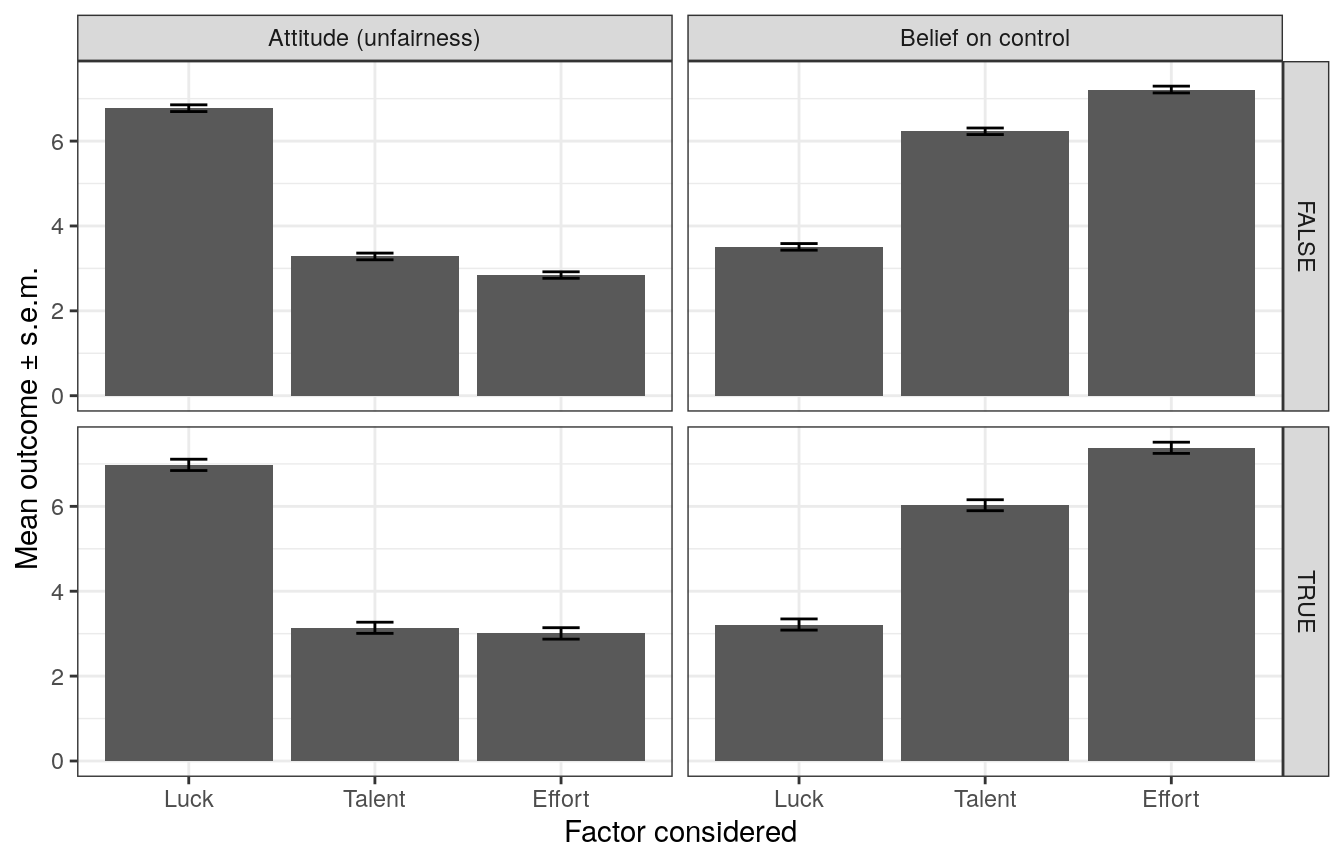
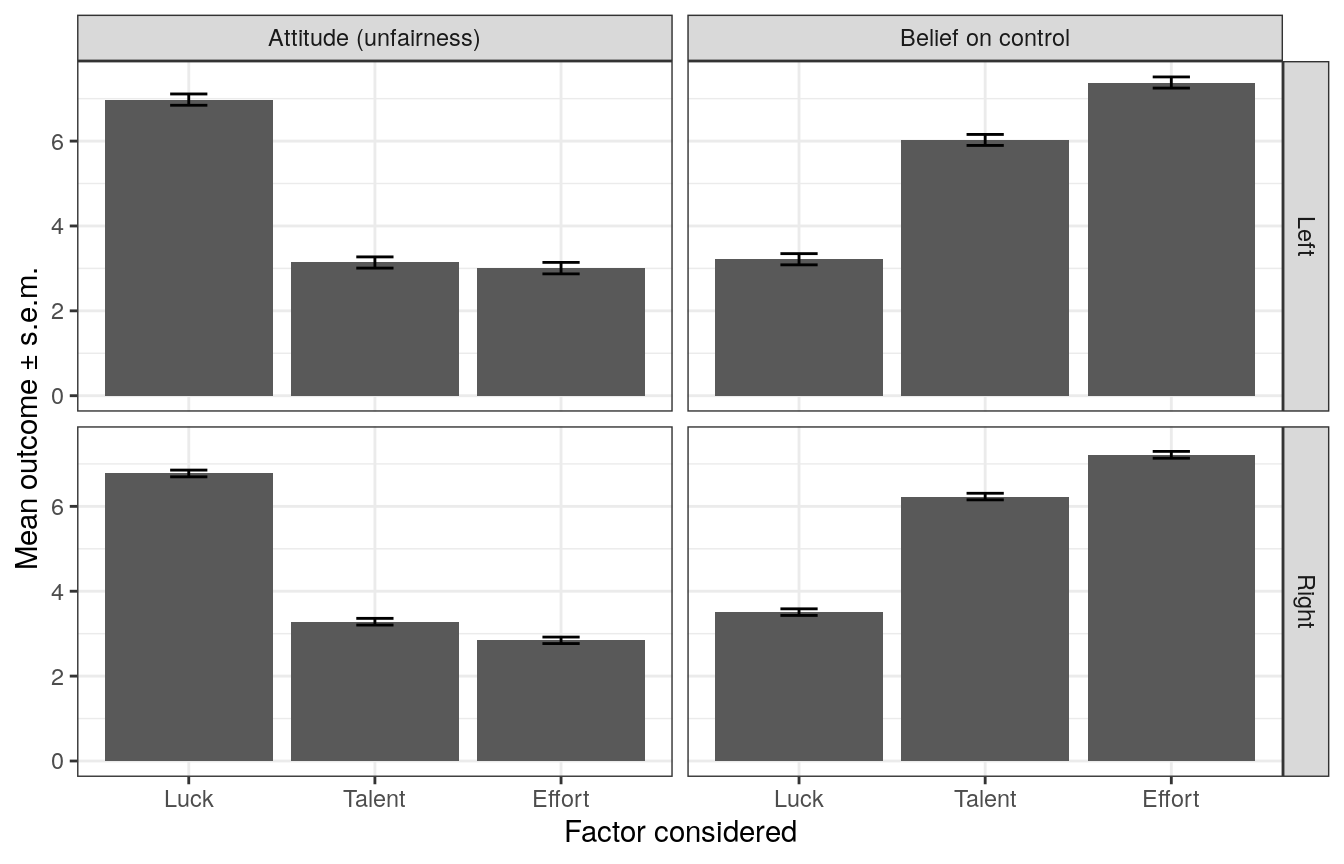
Updated graph labels.

diff --git a/docs/articles/survey-results.html b/docs/articles/survey-results.html
@@ -158,13 +158,14 @@
 <a class="sourceLine" id="cb5-4" data-line-number="4">                        <span class="dt">Luck =</span> <span class="kw"><a href="https://rdrr.io/r/base/c.html">c</a></span>(<span class="st">"AL"</span>,<span class="st">"CL"</span>),</a>
 <a class="sourceLine" id="cb5-5" data-line-number="5">                        <span class="dt">Talent =</span> <span class="kw"><a href="https://rdrr.io/r/base/c.html">c</a></span>(<span class="st">"AT"</span>,<span class="st">"CT"</span>),</a>
 <a class="sourceLine" id="cb5-6" data-line-number="6">                        <span class="dt">Effort =</span> <span class="kw"><a href="https://rdrr.io/r/base/c.html">c</a></span>(<span class="st">"AE"</span>, <span class="st">"CE"</span>)),</a>
-<a class="sourceLine" id="cb5-7" data-line-number="7">         <span class="dt">fo =</span> <span class="kw">fct_relevel</span>(f, <span class="kw"><a href="https://rdrr.io/r/base/c.html">c</a></span>(<span class="st">"Luck"</span>, <span class="st">"Talent"</span>, <span class="st">"Effort"</span>))) <span class="op">%&gt;%</span></a>
-<a class="sourceLine" id="cb5-8" data-line-number="8"><span class="st">  </span><span class="kw">group_by</span>(outcometype, left, fo, outcome) <span class="op">%&gt;%</span><span class="st"> </span><span class="kw">summarize</span>(<span class="dt">m =</span> <span class="kw"><a href="https://rdrr.io/r/base/mean.html">mean</a></span>(value), <span class="dt">se =</span> <span class="kw"><a href="https://rdrr.io/r/stats/sd.html">sd</a></span>(value)<span class="op">/</span><span class="kw"><a href="https://rdrr.io/r/base/MathFun.html">sqrt</a></span>(<span class="kw">n</span>()))  <span class="op">%&gt;%</span></a>
-<a class="sourceLine" id="cb5-9" data-line-number="9"><span class="st">  </span><span class="kw">ggplot</span>(<span class="kw">aes</span>(<span class="dt">x=</span>fo, <span class="dt">y=</span>m)) <span class="op">+</span></a>
-<a class="sourceLine" id="cb5-10" data-line-number="10"><span class="st">  </span><span class="kw">geom_bar</span>(<span class="dt">stat=</span><span class="st">"identity"</span>) <span class="op">+</span><span class="st"> </span><span class="kw">facet_grid</span>(left <span class="op">~</span><span class="st"> </span>outcometype) <span class="op">+</span><span class="st"> </span></a>
-<a class="sourceLine" id="cb5-11" data-line-number="11"><span class="st">  </span><span class="kw">geom_errorbar</span>(<span class="kw">aes</span>(<span class="dt">ymin=</span>m<span class="op">-</span>se, <span class="dt">ymax=</span>m<span class="op">+</span>se), <span class="dt">width=</span><span class="fl">0.2</span>) <span class="op">+</span><span class="st"> </span></a>
-<a class="sourceLine" id="cb5-12" data-line-number="12"><span class="st">  </span><span class="kw">xlab</span>(<span class="st">"Factor considered"</span>) <span class="op">+</span><span class="st"> </span><span class="kw">ylab</span>(<span class="st">"Mean outcome \u00B1 s.e.m."</span>) <span class="op">+</span></a>
-<a class="sourceLine" id="cb5-13" data-line-number="13"><span class="st">  </span><span class="kw">theme_bw</span>()</a></code></pre></div>
+<a class="sourceLine" id="cb5-7" data-line-number="7">         <span class="dt">fo =</span> <span class="kw">fct_relevel</span>(f, <span class="kw"><a href="https://rdrr.io/r/base/c.html">c</a></span>(<span class="st">"Luck"</span>, <span class="st">"Talent"</span>, <span class="st">"Effort"</span>)),</a>
+<a class="sourceLine" id="cb5-8" data-line-number="8">         <span class="dt">left_description =</span> <span class="kw"><a href="https://rdrr.io/r/base/c.html">c</a></span>(<span class="st">"Right"</span>, <span class="st">"Left"</span>)[left<span class="op">+</span><span class="dv">1</span>]) <span class="op">%&gt;%</span></a>
+<a class="sourceLine" id="cb5-9" data-line-number="9"><span class="st">  </span><span class="kw">group_by</span>(outcometype, left_description, fo, outcome) <span class="op">%&gt;%</span><span class="st"> </span><span class="kw">summarize</span>(<span class="dt">m =</span> <span class="kw"><a href="https://rdrr.io/r/base/mean.html">mean</a></span>(value), <span class="dt">se =</span> <span class="kw"><a href="https://rdrr.io/r/stats/sd.html">sd</a></span>(value)<span class="op">/</span><span class="kw"><a href="https://rdrr.io/r/base/MathFun.html">sqrt</a></span>(<span class="kw">n</span>()))  <span class="op">%&gt;%</span></a>
+<a class="sourceLine" id="cb5-10" data-line-number="10"><span class="st">  </span><span class="kw">ggplot</span>(<span class="kw">aes</span>(<span class="dt">x=</span>fo, <span class="dt">y=</span>m)) <span class="op">+</span></a>
+<a class="sourceLine" id="cb5-11" data-line-number="11"><span class="st">  </span><span class="kw">geom_bar</span>(<span class="dt">stat=</span><span class="st">"identity"</span>) <span class="op">+</span><span class="st"> </span><span class="kw">facet_grid</span>(left_description <span class="op">~</span><span class="st"> </span>outcometype) <span class="op">+</span><span class="st"> </span></a>
+<a class="sourceLine" id="cb5-12" data-line-number="12"><span class="st">  </span><span class="kw">geom_errorbar</span>(<span class="kw">aes</span>(<span class="dt">ymin=</span>m<span class="op">-</span>se, <span class="dt">ymax=</span>m<span class="op">+</span>se), <span class="dt">width=</span><span class="fl">0.2</span>) <span class="op">+</span><span class="st"> </span></a>
+<a class="sourceLine" id="cb5-13" data-line-number="13"><span class="st">  </span><span class="kw">xlab</span>(<span class="st">"Factor considered"</span>) <span class="op">+</span><span class="st"> </span><span class="kw">ylab</span>(<span class="st">"Mean outcome \u00B1 s.e.m."</span>) <span class="op">+</span></a>
+<a class="sourceLine" id="cb5-14" data-line-number="14"><span class="st">  </span><span class="kw">theme_bw</span>()</a></code></pre></div>
 <p><img src="survey-results_files/figure-html/unnamed-chunk-4-1.png" width="672"></p>
 <div class="sourceCode" id="cb6"><pre class="sourceCode r"><code class="sourceCode r"><a class="sourceLine" id="cb6-1" data-line-number="1"><span class="kw">ggsave</span>(here<span class="op">::</span><span class="kw"><a href="https://rdrr.io/pkg/here/man/here.html">here</a></span>(<span class="st">"graphs"</span>,<span class="st">"attitudes_beliefs_pol.pdf"</span>))</a>
 <a class="sourceLine" id="cb6-2" data-line-number="2"><span class="co">#&gt; Saving 7 x 4.5 in image</span></a></code></pre></div>
@@ -203,9 +204,9 @@
 <a class="sourceLine" id="cb7-27" data-line-number="27"><span class="co">#&gt; # A tibble: 3 x 13</span></a>
 <a class="sourceLine" id="cb7-28" data-line-number="28"><span class="co">#&gt;   treatment  gender   age left   income     edu    id fct   attitude</span></a>
 <a class="sourceLine" id="cb7-29" data-line-number="29"><span class="co">#&gt;   &lt;fct&gt;     &lt;dbl+l&gt; &lt;dbl&gt; &lt;lgl&gt; &lt;dbl+l&gt; &lt;dbl+l&gt; &lt;int&gt; &lt;fct&gt;    &lt;dbl&gt;</span></a>
-<a class="sourceLine" id="cb7-30" data-line-number="30"><span class="co">#&gt; 1 Ex Post … 1 [Fem…    24 TRUE  3 [60 … 3 [Som…  1892 effo…        0</span></a>
-<a class="sourceLine" id="cb7-31" data-line-number="31"><span class="co">#&gt; 2 Ex Ante … 1 [Fem…    31 FALSE 2 [ 30… 4 [Ass…   498 tale…        3</span></a>
-<a class="sourceLine" id="cb7-32" data-line-number="32"><span class="co">#&gt; 3 Ex Ante … 1 [Fem…    34 TRUE  2 [ 30… 5 [Bac…   378 luck         9</span></a>
+<a class="sourceLine" id="cb7-30" data-line-number="30"><span class="co">#&gt; 1 Ex Post … 1 [Fem…    18 FALSE 1 [Les… 1 [No …   496 effo…        0</span></a>
+<a class="sourceLine" id="cb7-31" data-line-number="31"><span class="co">#&gt; 2 Ex Post … 0 [Mal…    20 FALSE 3 [60 … 2 [Hig…   796 effo…        5</span></a>
+<a class="sourceLine" id="cb7-32" data-line-number="32"><span class="co">#&gt; 3 Ex Ante … 0 [Mal…    56 FALSE 2 [ 30… 3 [Som…  1247 effo…        0</span></a>
 <a class="sourceLine" id="cb7-33" data-line-number="33"><span class="co">#&gt; # … with 4 more variables: controlbelief &lt;dbl&gt;, Luck &lt;dbl&gt;, Effort &lt;dbl&gt;,</span></a>
 <a class="sourceLine" id="cb7-34" data-line-number="34"><span class="co">#&gt; #   Talent &lt;dbl&gt;</span></a></code></pre></div>
 <p>Now, it should be possible to run the regression <span class="math display">\[ A_{i,t} = \beta_0 + \beta_1 B_{i,t} + \beta_2 X_i +  \phi_t + \epsilon_{i,t}, \]</span> where <span class="math inline">\(i\)</span> index the individual, and <span class="math inline">\(t\in\{ \mathrm{effort}, \mathrm{talent}, \mathrm{luck}\}\)</span>, <span class="math inline">\(A_{i,t}\in[0,10]\)</span> is the fairness attitude, <span class="math inline">\(B_{i,t}\in[0,10]\)</span> is the control belief, <span class="math inline">\(X_i\)</span> is a set of individual controls, and <span class="math inline">\(\phi_t\)</span> is a set of fixed effect for each factor.</p>
